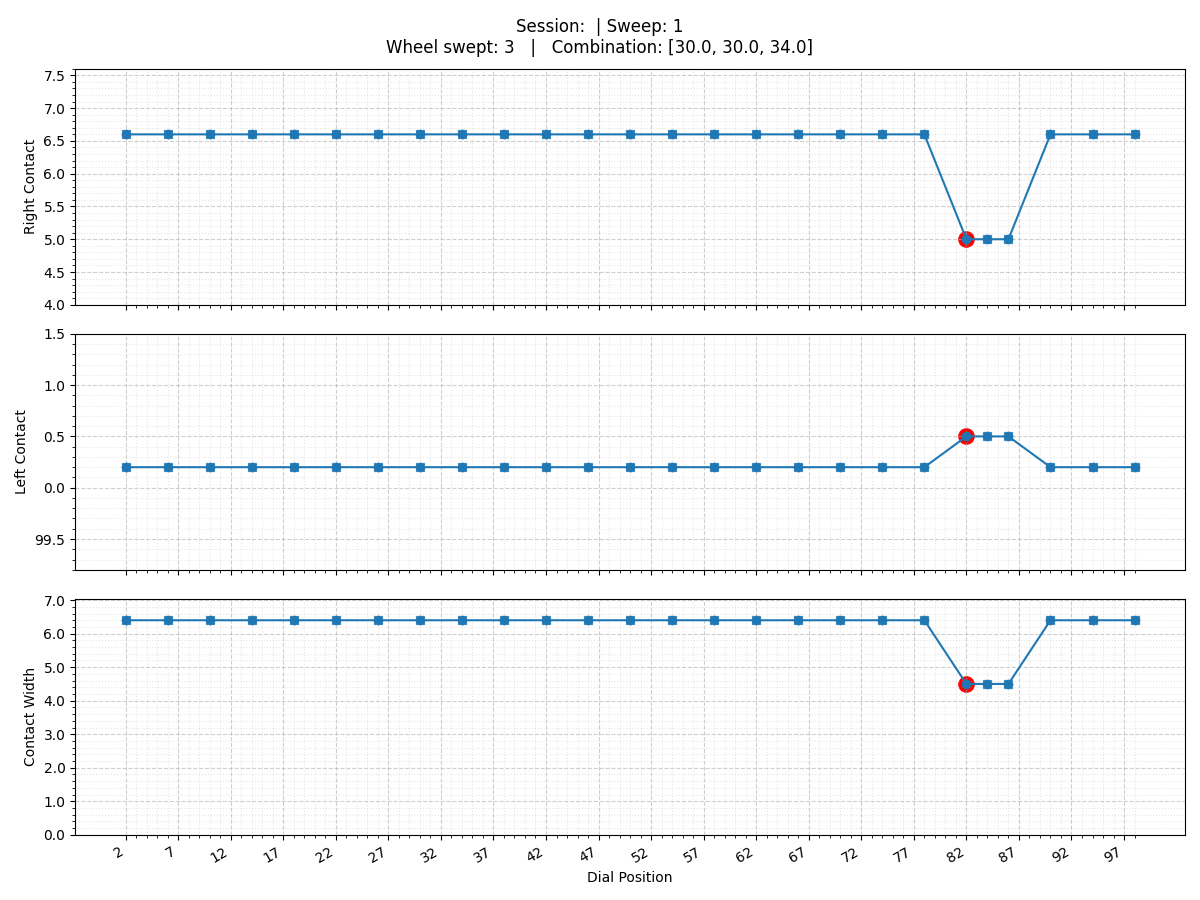
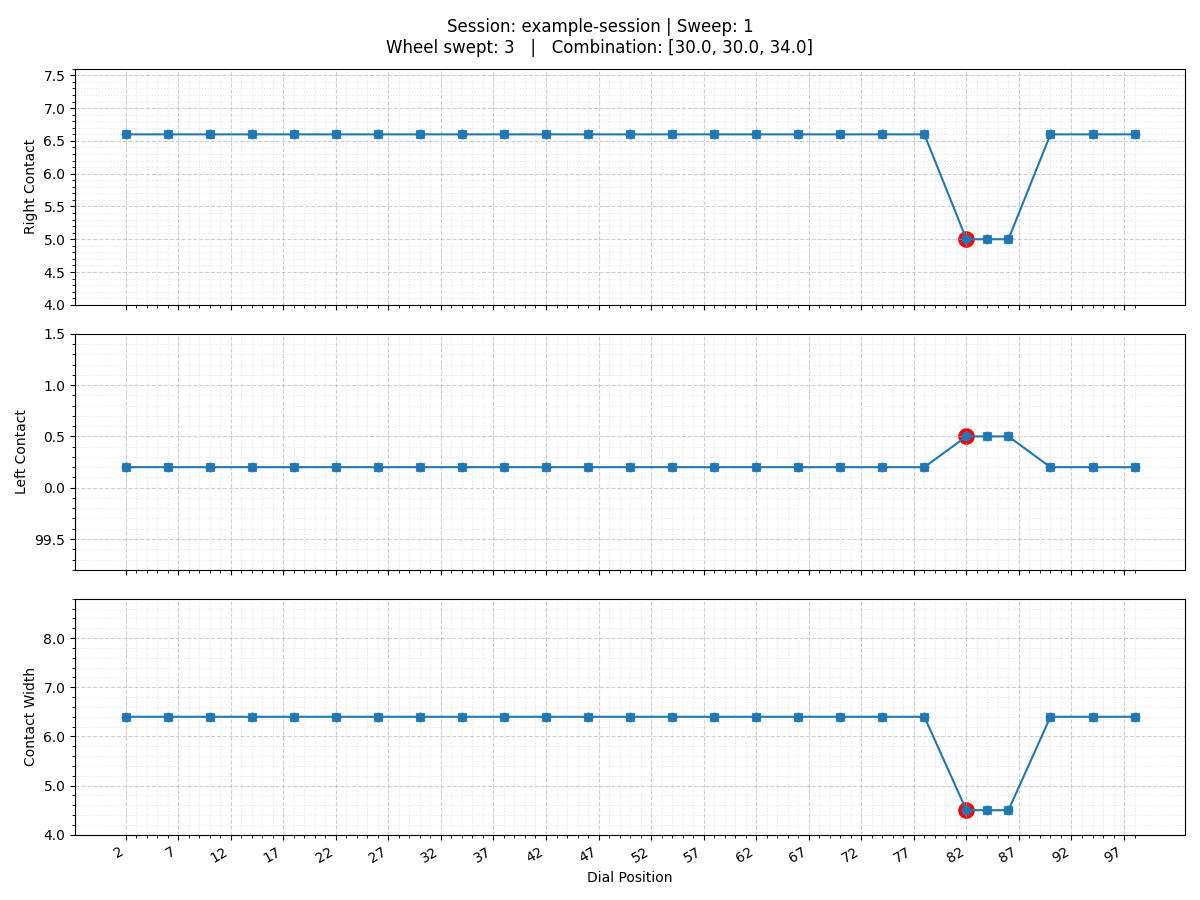
add session name to plot

diff --git a/clas_core.py b/clas_core.py
@@ -3316,6 +3316,18 @@ def _prompt_single_wheel_sweep(session: Session, ctx: Dict[str, Any]) -> PromptS
             "default": default_key,
         }
 
+    if ctx["step"] == "record_contacts":
+        return {
+            "id":"enumw.record_contacts",
+            "kind":"choice",
+            "text":"Record LCP/RCP values for this sweep (for plotting later)?",
+            "choices":[
+                {"key":"1","label":"Yes"},
+                {"key":"2","label":"No"},
+            ],
+            "default":"2",
+        }
+
     # after choosing wheel, prompt fixed combination for other wheels (simple)
     if ctx["step"] == "enter_fixed":
         w = int(ctx["wheel"])
@@ -3352,6 +3364,17 @@ def _prompt_single_wheel_sweep(session: Session, ctx: Dict[str, Any]) -> PromptS
             ctx["gi"] = 0
         gi = int(ctx.get("gi",0) or 0)
         if gi >= len(ctx["gates"]):
+            if ctx.get("record_contacts"):
+                sweep_id = int(ctx.get("sweep_id", 0) or 0)
+                return {
+                    "id":"enumw.done",
+                    "kind":"confirm",
+                    "text":(
+                        f"Single-wheel sweep complete. Sweep saved as sweep={sweep_id}.\n"
+                        "You can plot this sweep later from the main menu.\n"
+                        "Press Enter to return."
+                    ),
+                }
             return {"id":"enumw.done","kind":"confirm","text":"Single-wheel sweep complete. Press Enter to return."}
         g = float(ctx["gates"][gi])
 
@@ -3363,6 +3386,33 @@ def _prompt_single_wheel_sweep(session: Session, ctx: Dict[str, Any]) -> PromptS
                 combo.append(g)
             else:
                 combo.append(float(ctx["fixed"][str(i)]))
+        if ctx.get("record_contacts"):
+            run_phase = str(ctx.get("run_phase", "lcp"))
+            if run_phase == "rcp":
+                return {
+                    "id":"enumw.rcp",
+                    "kind":"float",
+                    "text":(
+                        f"Cycle {gi+1}/{len(ctx['gates'])}\n"
+                        f"Refine {gi+1}/{len(ctx['gates'])} @ Wheel {w} = {_fmt_float(g)}\n"
+                        f"Try combination (wheel {w} varied): {_fmt_float_tuple(combo)}\n\n"
+                        "Turn left (CCW) until you hit the RCP. Enter RCP"
+                    ),
+                }
+            return {
+                "id":"enumw.lcp",
+                "kind":"float",
+                "text":(
+                    f"Cycle {gi+1}/{len(ctx['gates'])}\n"
+                    f"Refine {gi+1}/{len(ctx['gates'])} @ Wheel {w} = {_fmt_float(g)}\n"
+                    f"Try combination (wheel {w} varied): {_fmt_float_tuple(combo)}\n\n"
+                    f"Turn left (CCW) passing {_fmt_float(combo[0])} three times, stop on {_fmt_float(combo[0])}.\n"
+                    f"Turn right (CW) passing {_fmt_float(combo[0])} two times, stop on {_fmt_float(combo[1])}.\n"
+                    f"Turn left (CCW) passing {_fmt_float(combo[1])} one time, stop on {_fmt_float(combo[2])}.\n"
+                    "Turn right (CW) to test position.\n\n"
+                    "Turn right (CW) until you hit the LCP. Enter LCP"
+                ),
+            }
         return {
             "id":"enumw.result",
             "kind":"choice",
@@ -3393,6 +3443,14 @@ def _apply_single_wheel_sweep(session: Session, ctx: Dict[str, Any], parsed: Any
 
     if pid == "enumw.wheel":
         ctx["wheel"] = int(parsed)
+        ctx["step"] = "record_contacts"
+        return True, None
+
+    if pid == "enumw.record_contacts":
+        ctx["record_contacts"] = (str(parsed) == "1")
+        if ctx.get("record_contacts"):
+            ctx["sweep_id"] = _next_sweep_id(session)
+            ctx["run_phase"] = "lcp"
         ctx["step"] = "enter_fixed"
         return True, None
 
@@ -3442,6 +3500,43 @@ def _apply_single_wheel_sweep(session: Session, ctx: Dict[str, Any], parsed: Any
             att = {"combo": list(combo), "status": "closed" if res=="0" else "error"}
             session["state"]["metadata"].setdefault("enumeration_attempts", []).append(att)
         ctx["gi"] = gi + 1
+        return True, None
+
+    if pid == "enumw.lcp":
+        ctx["current_lcp"] = float(parsed)
+        ctx["run_phase"] = "rcp"
+        return True, None
+
+    if pid == "enumw.rcp":
+        lc = session["state"]["lock_config"]
+        dial_min = float(lc["dial_min"]); dial_max = float(lc["dial_max"])
+        wheels = int(lc.get("wheels",0) or 0)
+        w = int(ctx["wheel"])
+        gi = int(ctx.get("gi",0) or 0)
+        g = float(ctx["gates"][gi])
+        combo = []
+        for i in range(1, wheels+1):
+            if i == w:
+                combo.append(g)
+            else:
+                combo.append(float(ctx["fixed"][str(i)]))
+        lcp = float(ctx.get("current_lcp"))
+        rcp = float(parsed)
+        sweep_id = int(ctx.get("sweep_id", 0) or 0)
+        row = {
+            "id": _next_measurement_id(session, ctx),
+            "sweep": sweep_id,
+            "wheel_swept": w,
+            "left_contact": lcp,
+            "right_contact": rcp,
+            "contact_width": circular_distance(rcp, lcp, dial_min, dial_max),
+            "notes": "",
+        }
+        for i in range(1, wheels + 1):
+            row[f"combination_wheel_{i}"] = combo[i - 1]
+        session["state"]["measurements"].append(row)
+        ctx["gi"] = gi + 1
+        ctx["run_phase"] = "lcp"
         return True, None
 
     # if we just finished fixed entries:

diff --git a/clas_cli.py b/clas_cli.py
@@ -456,7 +456,7 @@ def _maybe_save_graph(prompt: dict, data: dict, session_path: Path) -> None:
             out_path = _confirm_plot_path(out_path)
             if out_path is None:
                 return
-            _plot_sweep_png(rows, wheel_swept, sweep_id, out_path, session_name=str(data.get('state',{}).get('session_name','')))
+            _plot_sweep_png(rows, wheel_swept, sweep_id, out_path, session_name=str(data.get('meta',{}).get('session_name','')))
             print(f"[Plot saved] {out_path}")
             print("Press Enter to continue.")
             return
@@ -474,7 +474,7 @@ def _maybe_save_graph(prompt: dict, data: dict, session_path: Path) -> None:
             out_path = _confirm_plot_path(out_path)
             if out_path is None:
                 return
-            _plot_sweep_png(ms, wheel_swept, sweep_id, out_path, session_name=str(data.get('state',{}).get('session_name','')))
+            _plot_sweep_png(ms, wheel_swept, sweep_id, out_path, session_name=str(data.get('meta',{}).get('session_name','')))
             print(f"[Plot saved] {out_path}")
             print("Press Enter to continue.")
             return
@@ -485,7 +485,7 @@ def _maybe_save_graph(prompt: dict, data: dict, session_path: Path) -> None:
             out_path = _confirm_plot_path(out_path)
             if out_path is None:
                 return
-            _plot_high_low_png(data["state"]["measurements"], test_id, out_path, session_name=str(data.get('state',{}).get('session_name','')))
+            _plot_high_low_png(data["state"]["measurements"], test_id, out_path, session_name=str(data.get('meta',{}).get('session_name','')))
             print(f"[Plot saved] {out_path}")
             print("Press Enter to continue.")
             return
